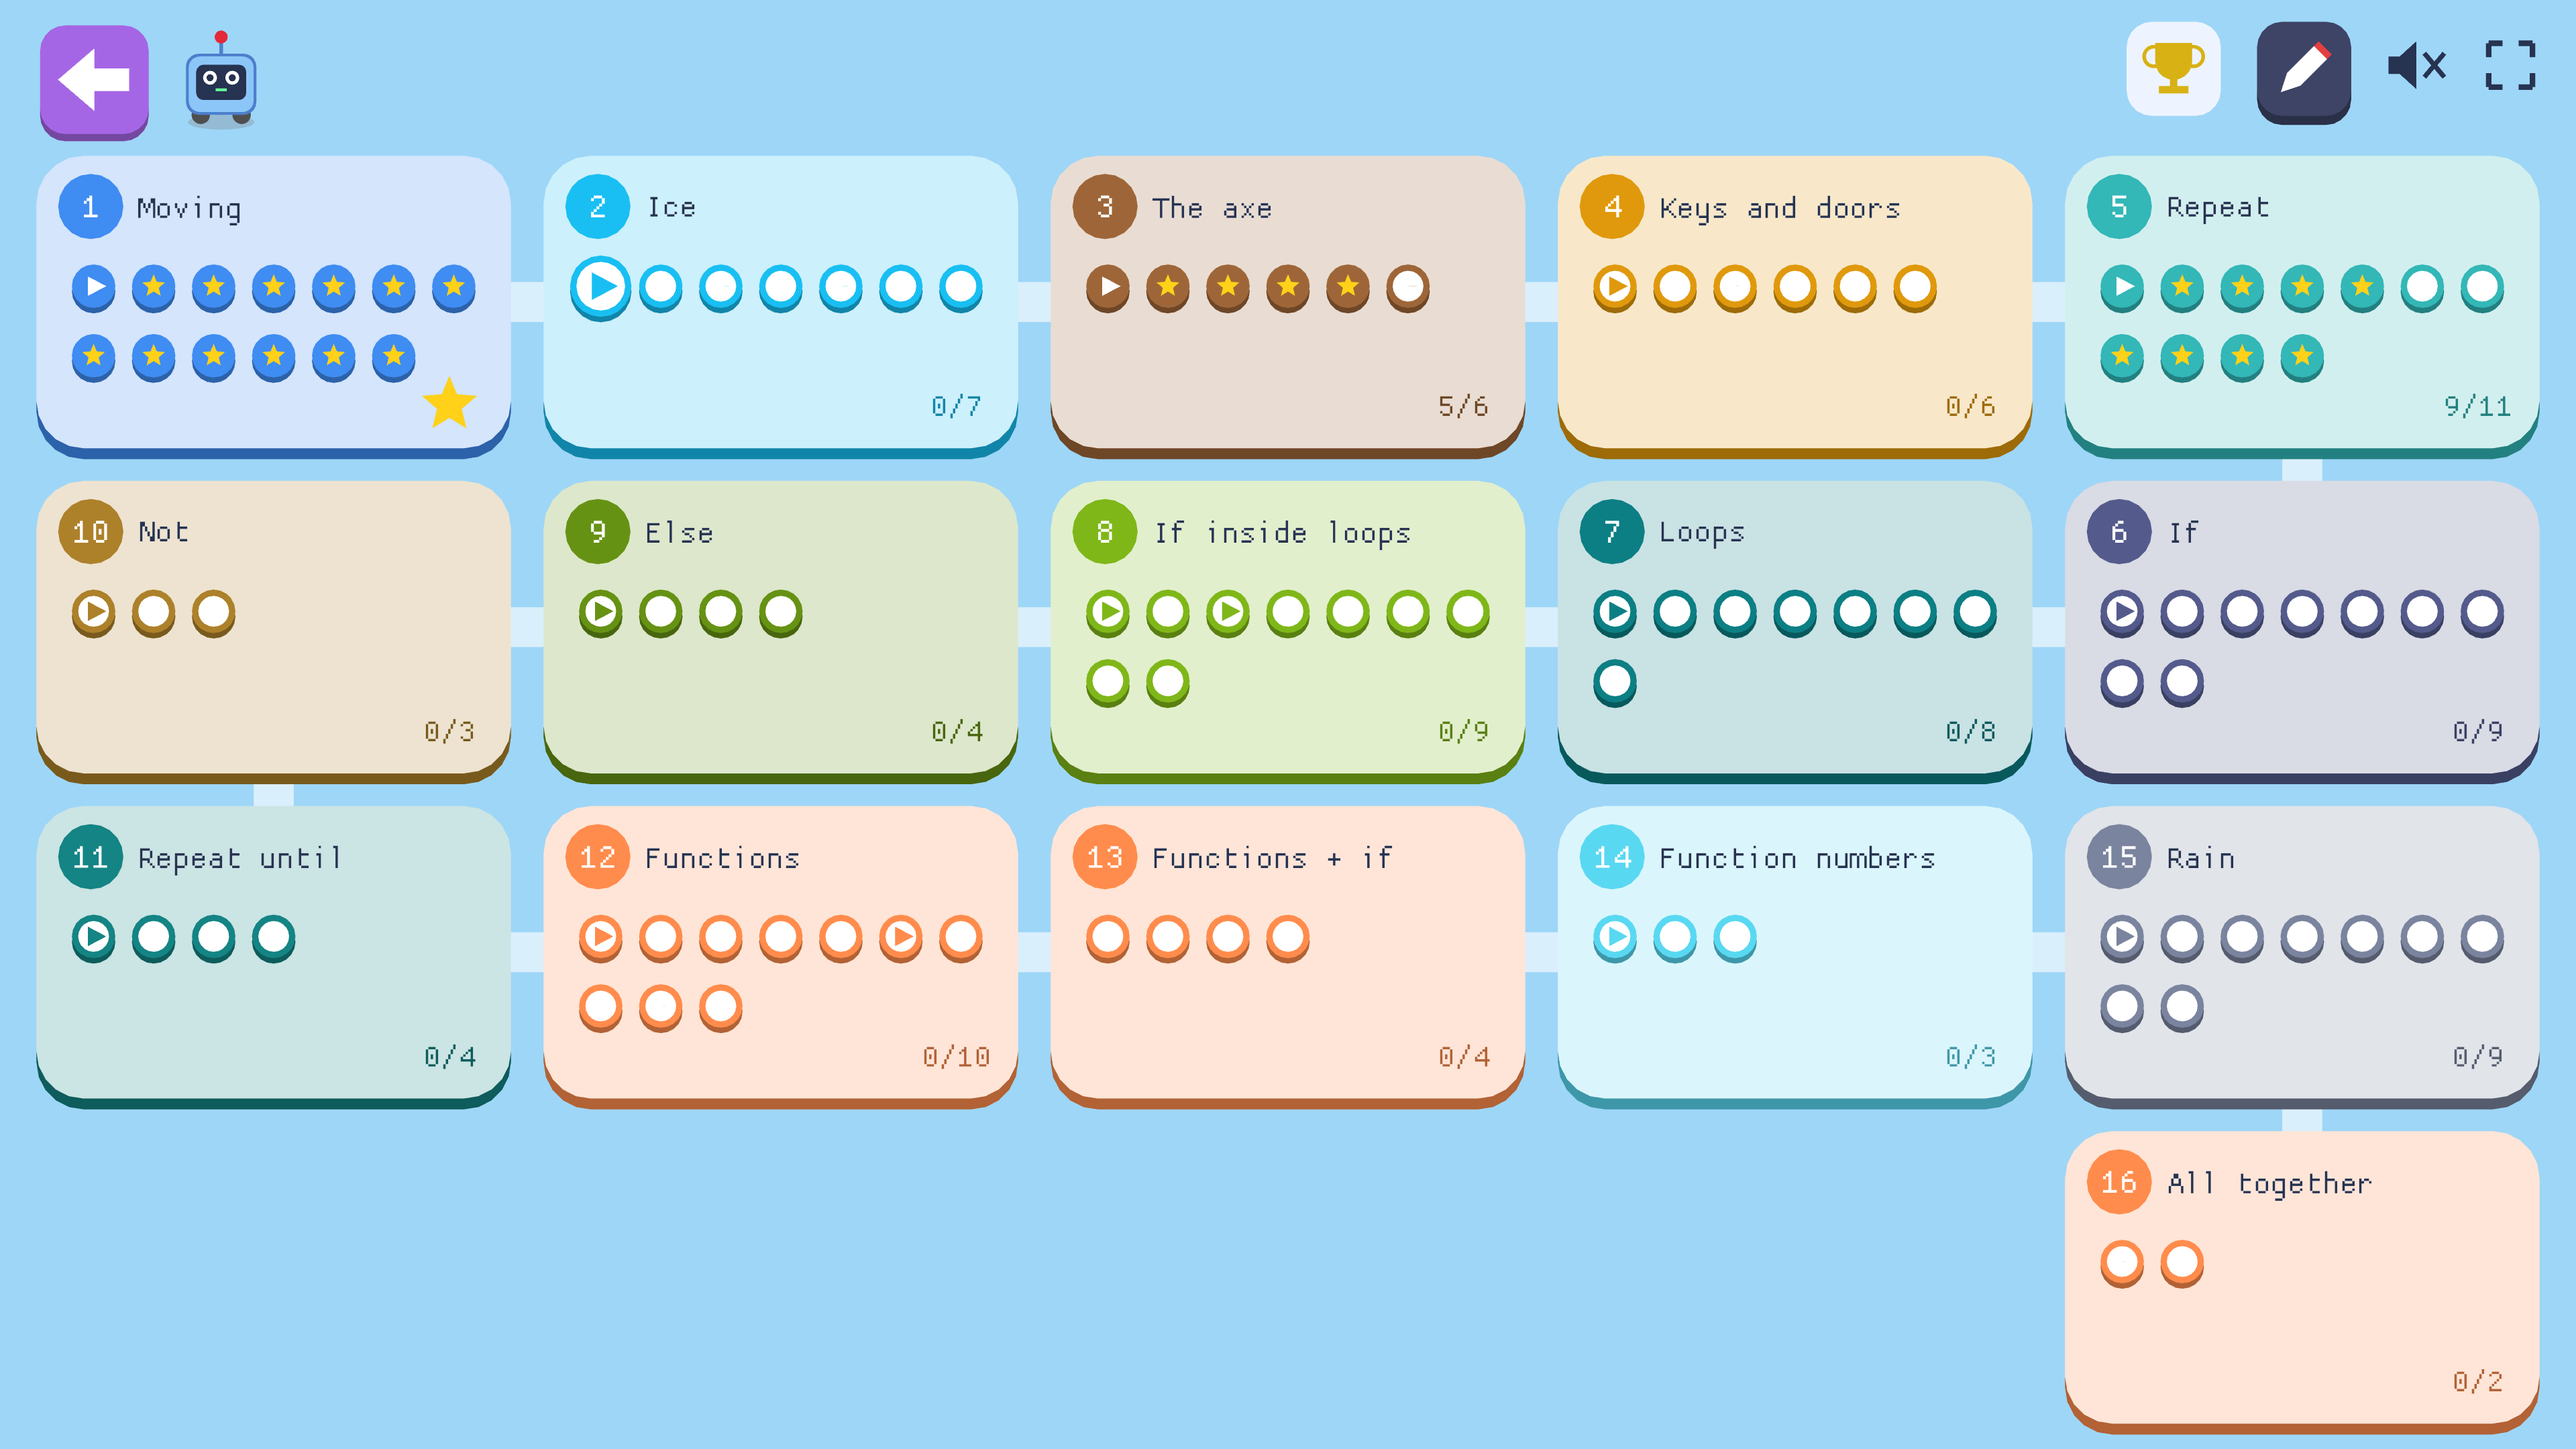
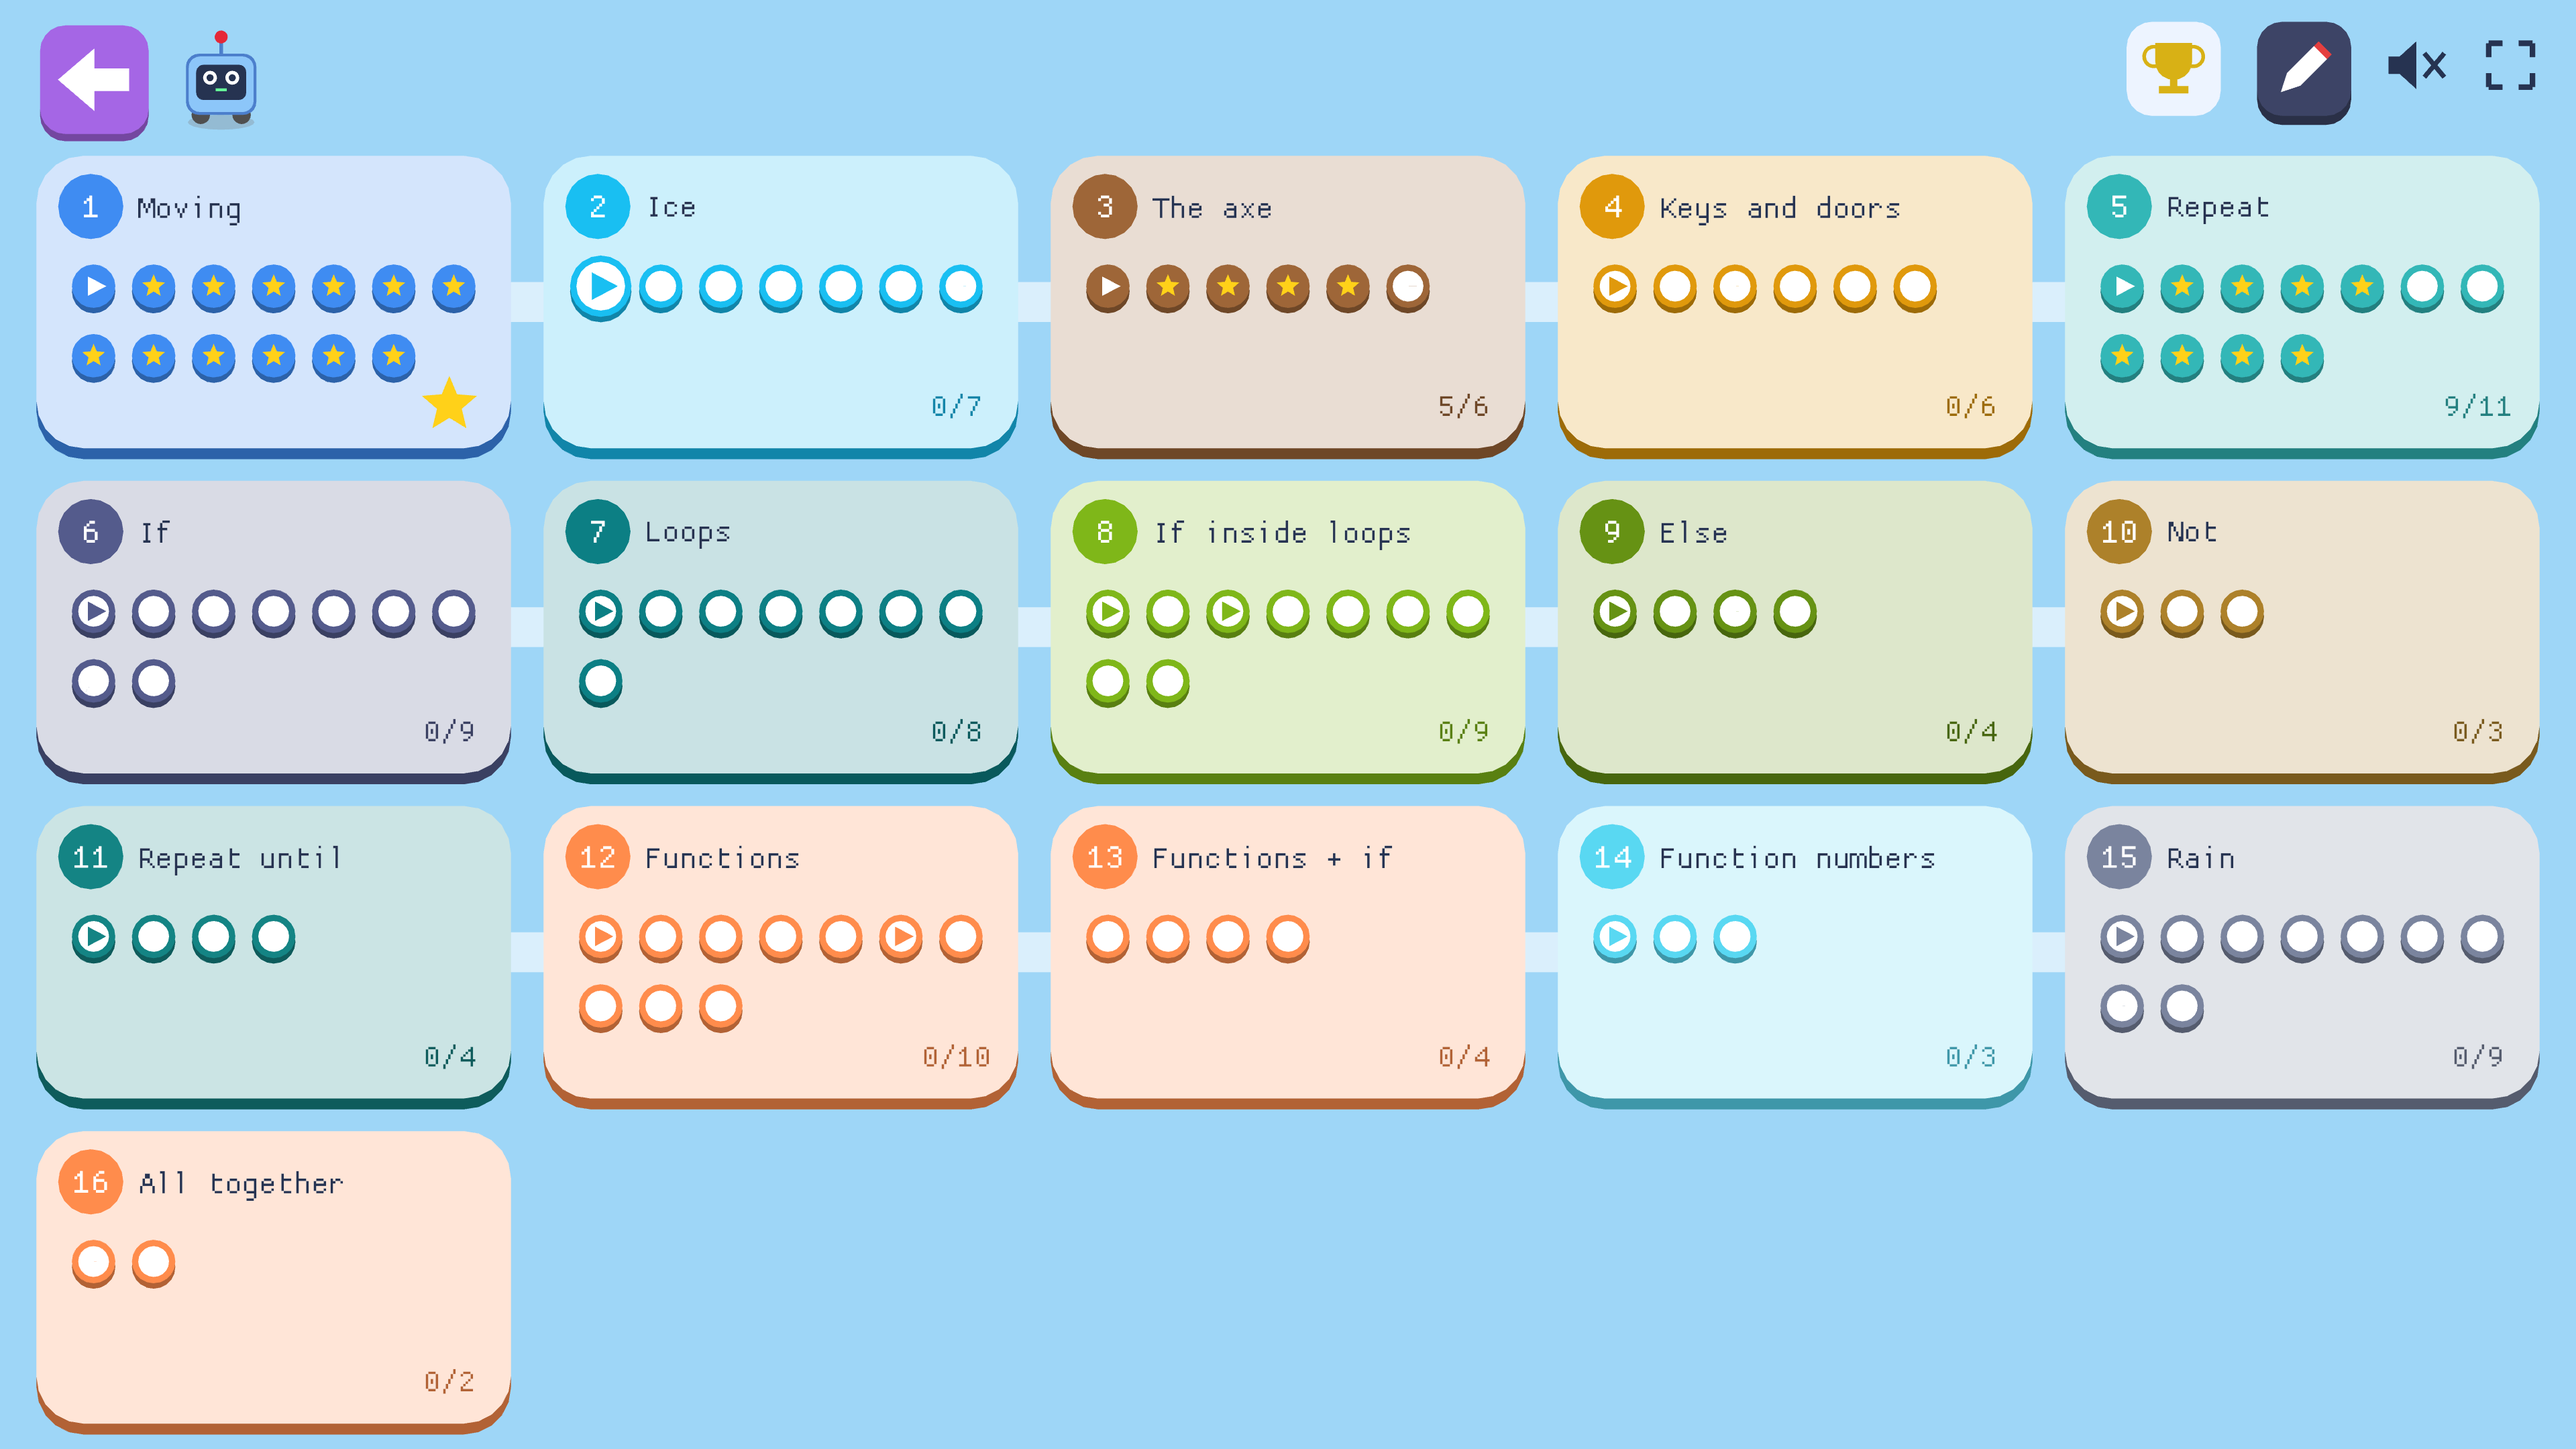
The level map reads left to right on every row
Claude-Session: https://claude.ai/code/session_01VnmfxMkceSTrMZSUnxPDiH

diff --git a/src/main.rs b/src/main.rs
@@ -2233,14 +2233,11 @@ impl Game {
     }
 
     /// Where chapter `chapter` (from 1) sits on the map: an island in a grid,
-    /// in order along rows that wind back and forth, so each leads on to the
-    /// next one beside (or below) it.
+    /// in order like reading, each row left to right.
     fn island(&self, chapter: usize) -> Rect {
         let rows = self.chapters().div_ceil(ISLAND_COLS);
-        let (row, mut col) = ((chapter - 1) / ISLAND_COLS, (chapter - 1) % ISLAND_COLS);
-        if row % 2 == 1 {
-            col = ISLAND_COLS - 1 - col;
-        }
+        // In reading order: left to right, then the next row down.
+        let (row, col) = ((chapter - 1) / ISLAND_COLS, (chapter - 1) % ISLAND_COLS);
         let gap = 18.0;
         let (top, bottom) = (86.0, H - 14.0);
         let w = (W - 40.0 - gap * (ISLAND_COLS - 1) as f32) / ISLAND_COLS as f32;
@@ -2714,8 +2711,8 @@ impl Game {
     fn draw_map(&self) {
         let n = self.levels.len();
         let next = self.next_unfinished().filter(|_| !self.challenge);
-        // A path from each chapter's island to the next.
-        for ch in 1..self.chapters() {
+        // A path from each chapter's island to the next one along the row.
+        for ch in (1..self.chapters()).filter(|ch| ch % ISLAND_COLS != 0) {
             let (a, b) = (self.island(ch).center(), self.island(ch + 1).center());
             draw_line(a.x, a.y, b.x, b.y, 22.0, Color::new(1.0, 1.0, 1.0, 0.5));
         }
